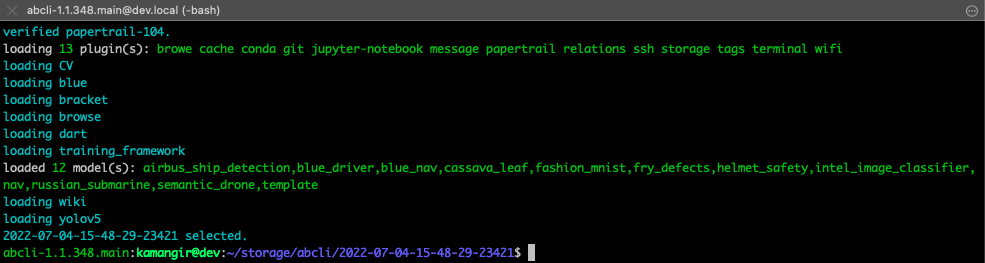
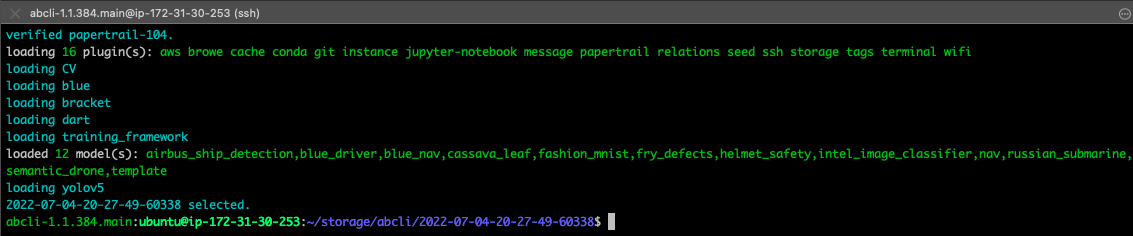
validation on ec2 - kamangir/bolt#685

Changed region(s): [[0.0, 0.0, 1.0, 1.0]]

diff --git a/abcli/__init__.py b/abcli/__init__.py
@@ -4,7 +4,7 @@ name = "awesome_bash_cli"
 
 shortname = "abcli"
 
-version = "1.1.388"
+version = "1.1.389"
 
 description = "a framework for quickly building awesome bash cli's for machine vision/deep learning."
 
